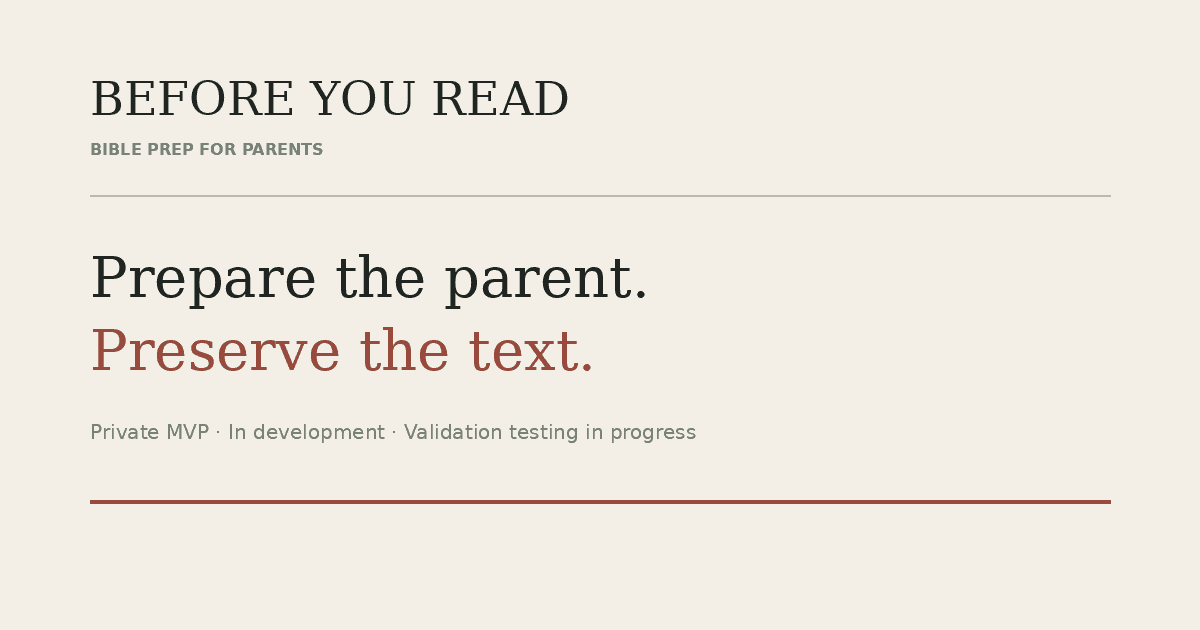
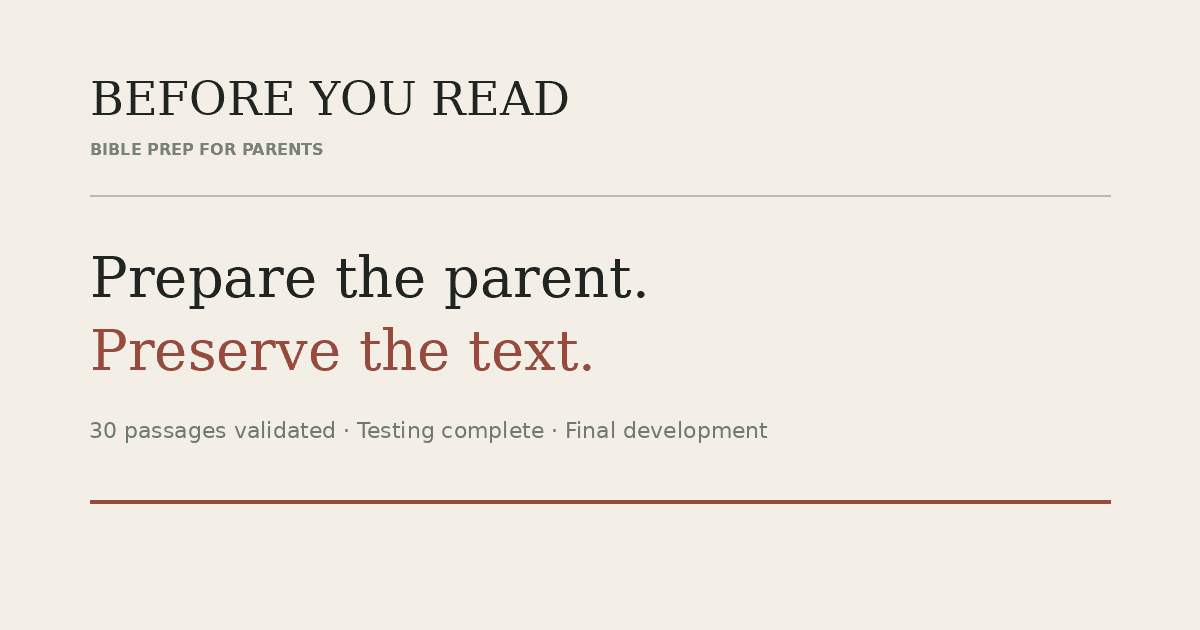
chore: update Before You Read launch status

Changed region(s): [[0.0617, 0.6635, 0.6475, 0.6937]]

diff --git a/before-you-read/pt-br/index.html b/before-you-read/pt-br/index.html
@@ -4,7 +4,7 @@
   <meta charset="utf-8">
   <meta name="viewport" content="width=device-width, initial-scale=1">
   <title>Before You Read — Preparação Bíblica para Pais</title>
-  <meta name="description" content="Before You Read é um MVP privado em desenvolvimento para pais cristãos que querem uma preparação curta e específica antes de ler passagens bíblicas difíceis com crianças de 4 a 9 anos.">
+  <meta name="description" content="Before You Read está em desenvolvimento final após concluir os testes de validação, com 30 Parent Preps validados para pais cristãos que leem passagens bíblicas difíceis com crianças de 4 a 9 anos.">
   <meta name="theme-color" content="#F3EFE7">
   <meta name="robots" content="index,follow">
   <link rel="canonical" href="https://emelyncampos.com.br/before-you-read/pt-br/">
@@ -13,7 +13,7 @@
   <link rel="alternate" hreflang="x-default" href="https://emelyncampos.com.br/before-you-read/">
   <meta property="og:type" content="website">
   <meta property="og:title" content="Before You Read — Preparação Bíblica para Pais">
-  <meta property="og:description" content="Prepare o adulto. Preserve o texto bíblico. Um MVP privado em desenvolvimento e em teste de validação para passagens bíblicas difíceis lidas em família.">
+  <meta property="og:description" content="Prepare o adulto. Preserve o texto bíblico. Os testes de validação foram concluídos, com 30 passagens validadas agora em desenvolvimento final antes do lançamento pago.">
   <meta property="og:url" content="https://emelyncampos.com.br/before-you-read/pt-br/">
   <meta property="og:image" content="https://emelyncampos.com.br/before-you-read/assets/og.png">
   <meta property="og:locale" content="pt_BR">
@@ -48,16 +48,16 @@
         <p class="kicker">Preparação bíblica para pais</p>
         <h1 id="hero-title">Você está prestes a ler esta passagem com seus filhos.<br><em>O que precisa saber primeiro?</em></h1>
         <p class="hero-lede">Before You Read oferece ao adulto um Parent Prep curto e específico antes de passagens bíblicas difíceis — para perceber o que importa, antecipar o que pode surgir e voltar ao texto bíblico mais preparado.</p>
-        <p class="status-line"><span aria-hidden="true"></span>MVP privado · Em desenvolvimento · Em teste de validação</p>
+        <p class="status-line"><span aria-hidden="true"></span>30 passagens validadas · Testes concluídos · Desenvolvimento final</p>
         <div class="hero-actions">
           <a class="button primary" href="#como-funciona">Ver como funciona <span aria-hidden="true">→</span></a>
           <a class="text-link" href="#status">Ver status atual</a>
         </div>
       </div>
 
-      <aside class="product-preview" aria-label="Prévia da interface do MVP privado">
+      <aside class="product-preview" aria-label="Prévia da interface do produto">
         <div class="preview-meta">
-          <span>INTERFACE DO MVP PRIVADO</span>
+          <span>INTERFACE EM DESENVOLVIMENTO</span>
           <span>GÊNESIS 22:1–19</span>
         </div>
         <p class="preview-eyebrow">PREPARAÇÃO PARA PAIS</p>
@@ -179,9 +179,9 @@
     <section class="library-section" aria-labelledby="library-title">
       <div class="shell library-grid">
         <div class="library-intro">
-          <p class="kicker light">Pequeno de propósito</p>
-          <h2 id="library-title">Cinco passagens difíceis.<br><em>Revisadas em profundidade antes de crescer em volume.</em></h2>
-          <p>O MVP privado começa com uma biblioteca deliberadamente pequena para que o método seja testado antes de ampliar o escopo.</p>
+          <p class="kicker light">Validado antes do lançamento</p>
+          <h2 id="library-title">Trinta passagens difíceis.<br><em>Revisadas em profundidade antes do lançamento público.</em></h2>
+          <p>A biblioteca atual reúne 30 Parent Preps validados e específicos por passagem. As passagens abaixo são cinco exemplos do conjunto mais amplo que agora segue para a etapa final de desenvolvimento do produto.</p>
         </div>
         <ol class="passage-list">
           <li><span>01</span><div><strong>Gênesis 22:1–19</strong><small>Abraão e Isaque</small></div></li>
@@ -212,15 +212,16 @@
       <div class="shell status-grid">
         <div>
           <p class="kicker">Status atual do projeto</p>
-          <h2 id="status-title">MVP privado.<br><em>Ainda em construção e teste.</em></h2>
-          <p class="status-lede">O acesso público ao produto ainda não está aberto. A fase atual existe para aprender se essa preparação é útil, compreensível, confiável e se vale a pena continuar construindo.</p>
+          <h2 id="status-title">Validação concluída.<br><em>Desenvolvimento final em andamento.</em></h2>
+          <p class="status-lede">A fase de testes foi concluída. Before You Read está agora em desenvolvimento final: refinando a experiência do produto, preservando o padrão editorial nas 30 passagens validadas e preparando o lançamento público pago.</p>
         </div>
         <dl class="status-facts">
-          <div><dt>Etapa</dt><dd>Em desenvolvimento + teste de validação</dd></div>
-          <div><dt>Conteúdo</dt><dd>Cinco Parent Preps específicos por passagem</dd></div>
+          <div><dt>Etapa</dt><dd>Desenvolvimento final</dd></div>
+          <div><dt>Validação</dt><dd>Testes concluídos</dd></div>
+          <div><dt>Conteúdo</dt><dd>30 Parent Preps validados e específicos por passagem</dd></div>
           <div><dt>Público</dt><dd>Pais/responsáveis lendo com crianças de 4–9 anos</dd></div>
           <div><dt>Idiomas</dt><dd>EN-US + PT-BR</dd></div>
-          <div><dt>Acesso</dt><dd>Somente validação privada</dd></div>
+          <div><dt>Lançamento</dt><dd>Preparação para acesso público pago</dd></div>
         </dl>
       </div>
     </section>
@@ -239,10 +240,10 @@
 
     <section class="vision-section" aria-labelledby="vision-title">
       <div class="shell vision-grid">
-        <p class="kicker light">Se a validação sustentar o problema</p>
+        <p class="kicker light">Da validação ao lançamento</p>
         <div>
-          <h2 id="vision-title">Ampliar a biblioteca com cuidado.<br><em>Manter o método exigente.</em></h2>
-          <p>O próximo passo não é gerar todas as passagens. É descobrir se esse tipo específico de preparação merece existir — e então ampliar apenas mantendo o mesmo padrão: passagem em primeiro lugar, fontes, orientação ao adulto e responsabilidade editorial.</p>
+          <h2 id="vision-title">Ampliar com cuidado.<br><em>Manter o método exigente.</em></h2>
+          <p>Os testes de validação foram concluídos. O trabalho agora é finalizar a experiência do produto, manter o mesmo padrão — passagem em primeiro lugar, fontes, orientação ao adulto e responsabilidade editorial — nas 30 passagens validadas e preparar o lançamento público pago.</p>
         </div>
       </div>
     </section>
@@ -250,7 +251,7 @@
     <section class="closing shell" aria-labelledby="closing-title">
       <p class="kicker">Before You Read</p>
       <h2 id="closing-title">A Bíblia continua sendo o destino.<br><em>Before You Read é a preparação antes dela.</em></h2>
-      <p class="closing-status">MVP privado · Em desenvolvimento · Em teste de validação</p>
+      <p class="closing-status">30 passagens validadas · Testes concluídos · Desenvolvimento final</p>
     </section>
   </main>
 
@@ -260,7 +261,7 @@
       <span>Preparação bíblica para pais</span>
     </div>
     <div class="footer-meta">
-      <span>MVP privado · 2026</span>
+      <span>Desenvolvimento final · 2026</span>
       <a href="../" lang="en-US" hreflang="en-US">English</a>
     </div>
   </footer>

diff --git a/before-you-read/index.html b/before-you-read/index.html
@@ -4,7 +4,7 @@
   <meta charset="utf-8">
   <meta name="viewport" content="width=device-width, initial-scale=1">
   <title>Before You Read — Bible Prep for Parents</title>
-  <meta name="description" content="Before You Read is a private MVP in development for Christian parents who want concise, passage-specific preparation before reading difficult Bible passages with children ages 4–9.">
+  <meta name="description" content="Before You Read is in final development after completing validation testing, with 30 validated passage-specific Parent Preps for Christian parents reading difficult Bible passages with children ages 4–9.">
   <meta name="theme-color" content="#F3EFE7">
   <meta name="robots" content="index,follow">
   <link rel="canonical" href="https://emelyncampos.com.br/before-you-read/">
@@ -13,7 +13,7 @@
   <link rel="alternate" hreflang="x-default" href="https://emelyncampos.com.br/before-you-read/">
   <meta property="og:type" content="website">
   <meta property="og:title" content="Before You Read — Bible Prep for Parents">
-  <meta property="og:description" content="Prepare the parent. Preserve the text. A private MVP in development and validation testing for difficult Bible passages families read together.">
+  <meta property="og:description" content="Prepare the parent. Preserve the text. Validation testing is complete, with 30 validated passages now in final development before paid release.">
   <meta property="og:url" content="https://emelyncampos.com.br/before-you-read/">
   <meta property="og:image" content="https://emelyncampos.com.br/before-you-read/assets/og.png">
   <meta property="og:locale" content="en_US">
@@ -48,16 +48,16 @@
         <p class="kicker">Bible prep for parents</p>
         <h1 id="hero-title">You’re about to read this passage with your kids.<br><em>What do you need to know first?</em></h1>
         <p class="hero-lede">Before You Read gives the adult a short, passage-specific Parent Prep before difficult Scripture — so you can notice what matters, anticipate what may come up, and return to the biblical text better prepared.</p>
-        <p class="status-line"><span aria-hidden="true"></span>Private MVP · In development · Validation testing in progress</p>
+        <p class="status-line"><span aria-hidden="true"></span>30 passages validated · Testing complete · Final development</p>
         <div class="hero-actions">
           <a class="button primary" href="#how-it-works">See how it works <span aria-hidden="true">→</span></a>
           <a class="text-link" href="#status">See current status</a>
         </div>
       </div>
 
-      <aside class="product-preview" aria-label="Private MVP interface preview">
+      <aside class="product-preview" aria-label="Product interface preview">
         <div class="preview-meta">
-          <span>PRIVATE MVP INTERFACE</span>
+          <span>DEVELOPMENT INTERFACE</span>
           <span>GENESIS 22:1–19</span>
         </div>
         <p class="preview-eyebrow">PARENT PREP</p>
@@ -179,9 +179,9 @@
     <section class="library-section" aria-labelledby="library-title">
       <div class="shell library-grid">
         <div class="library-intro">
-          <p class="kicker light">Small on purpose</p>
-          <h2 id="library-title">Five difficult passages.<br><em>Reviewed deeply before growing broadly.</em></h2>
-          <p>The private MVP begins with a deliberately small library so the method can be tested before the scope expands.</p>
+          <p class="kicker light">Validated before release</p>
+          <h2 id="library-title">Thirty difficult passages.<br><em>Reviewed deeply before public release.</em></h2>
+          <p>The current library contains 30 validated, passage-specific Parent Preps. The passages below are five examples from the broader set now moving through final product development.</p>
         </div>
         <ol class="passage-list">
           <li><span>01</span><div><strong>Genesis 22:1–19</strong><small>Abraham and Isaac</small></div></li>
@@ -212,15 +212,16 @@
       <div class="shell status-grid">
         <div>
           <p class="kicker">Current project status</p>
-          <h2 id="status-title">Private MVP.<br><em>Still being built and tested.</em></h2>
-          <p class="status-lede">Public product access is not open yet. The current stage is about learning whether the preparation is useful, understandable, trustworthy, and worth continuing to build.</p>
+          <h2 id="status-title">Validation complete.<br><em>Final development underway.</em></h2>
+          <p class="status-lede">The testing phase is complete. Before You Read is now in final development: refining the product experience, preserving the editorial standard across 30 validated passages, and preparing for a paid public release.</p>
         </div>
         <dl class="status-facts">
-          <div><dt>Stage</dt><dd>In development + validation testing</dd></div>
-          <div><dt>Content</dt><dd>Five passage-specific Parent Preps</dd></div>
+          <div><dt>Stage</dt><dd>Final development</dd></div>
+          <div><dt>Validation</dt><dd>Testing complete</dd></div>
+          <div><dt>Content</dt><dd>30 validated passage-specific Parent Preps</dd></div>
           <div><dt>Audience</dt><dd>Parents/caregivers reading with ages 4–9</dd></div>
           <div><dt>Languages</dt><dd>EN-US + PT-BR</dd></div>
-          <div><dt>Access</dt><dd>Private validation only</dd></div>
+          <div><dt>Release</dt><dd>Preparing for paid public access</dd></div>
         </dl>
       </div>
     </section>
@@ -239,10 +240,10 @@
 
     <section class="vision-section" aria-labelledby="vision-title">
       <div class="shell vision-grid">
-        <p class="kicker light">If the validation supports the job</p>
+        <p class="kicker light">From validation to release</p>
         <div>
-          <h2 id="vision-title">Grow the library carefully.<br><em>Keep the method demanding.</em></h2>
-          <p>The next step is not to generate every passage. It is to learn whether this specific kind of preparation deserves to exist — then expand only with the same passage-first, source-aware, parent-facing standard.</p>
+          <h2 id="vision-title">Grow carefully.<br><em>Keep the method demanding.</em></h2>
+          <p>Validation testing is complete. The work now is to finish the product experience, maintain the same passage-first, source-aware, parent-facing standard across the 30 validated passages, and prepare for a paid public release.</p>
         </div>
       </div>
     </section>
@@ -250,7 +251,7 @@
     <section class="closing shell" aria-labelledby="closing-title">
       <p class="kicker">Before You Read</p>
       <h2 id="closing-title">The Bible is still the destination.<br><em>Before You Read is the preparation before it.</em></h2>
-      <p class="closing-status">Private MVP · In development · Validation testing in progress</p>
+      <p class="closing-status">30 passages validated · Testing complete · Final development</p>
     </section>
   </main>
 
@@ -260,7 +261,7 @@
       <span>Bible prep for parents</span>
     </div>
     <div class="footer-meta">
-      <span>Private MVP · 2026</span>
+      <span>Final development · 2026</span>
       <a href="./pt-br/" lang="pt-BR" hreflang="pt-BR">Português</a>
     </div>
   </footer>
